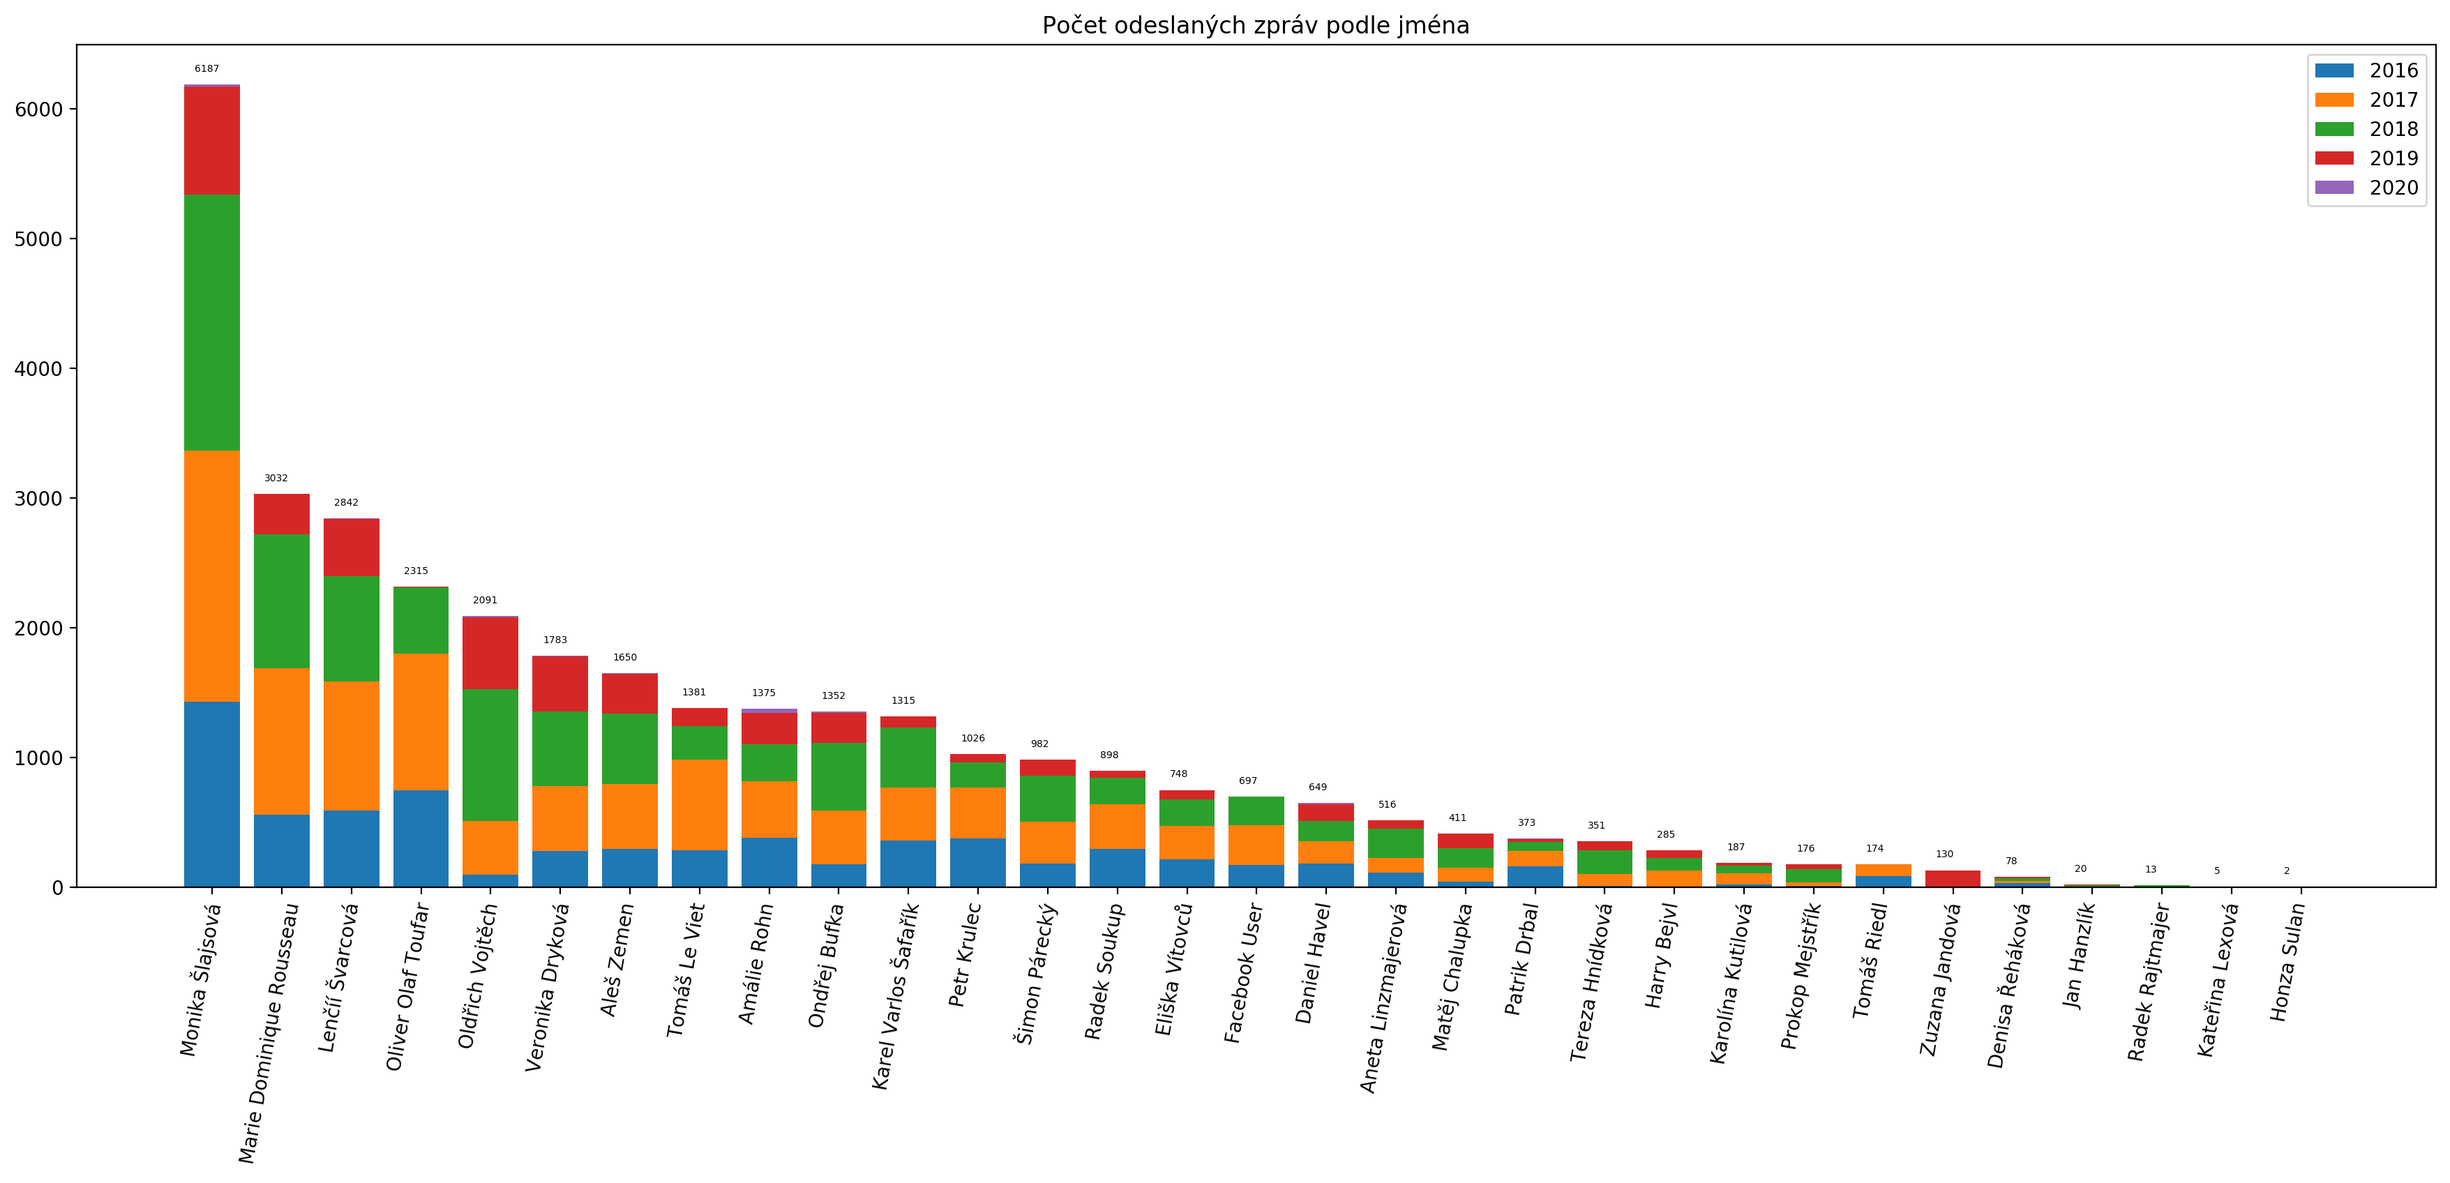
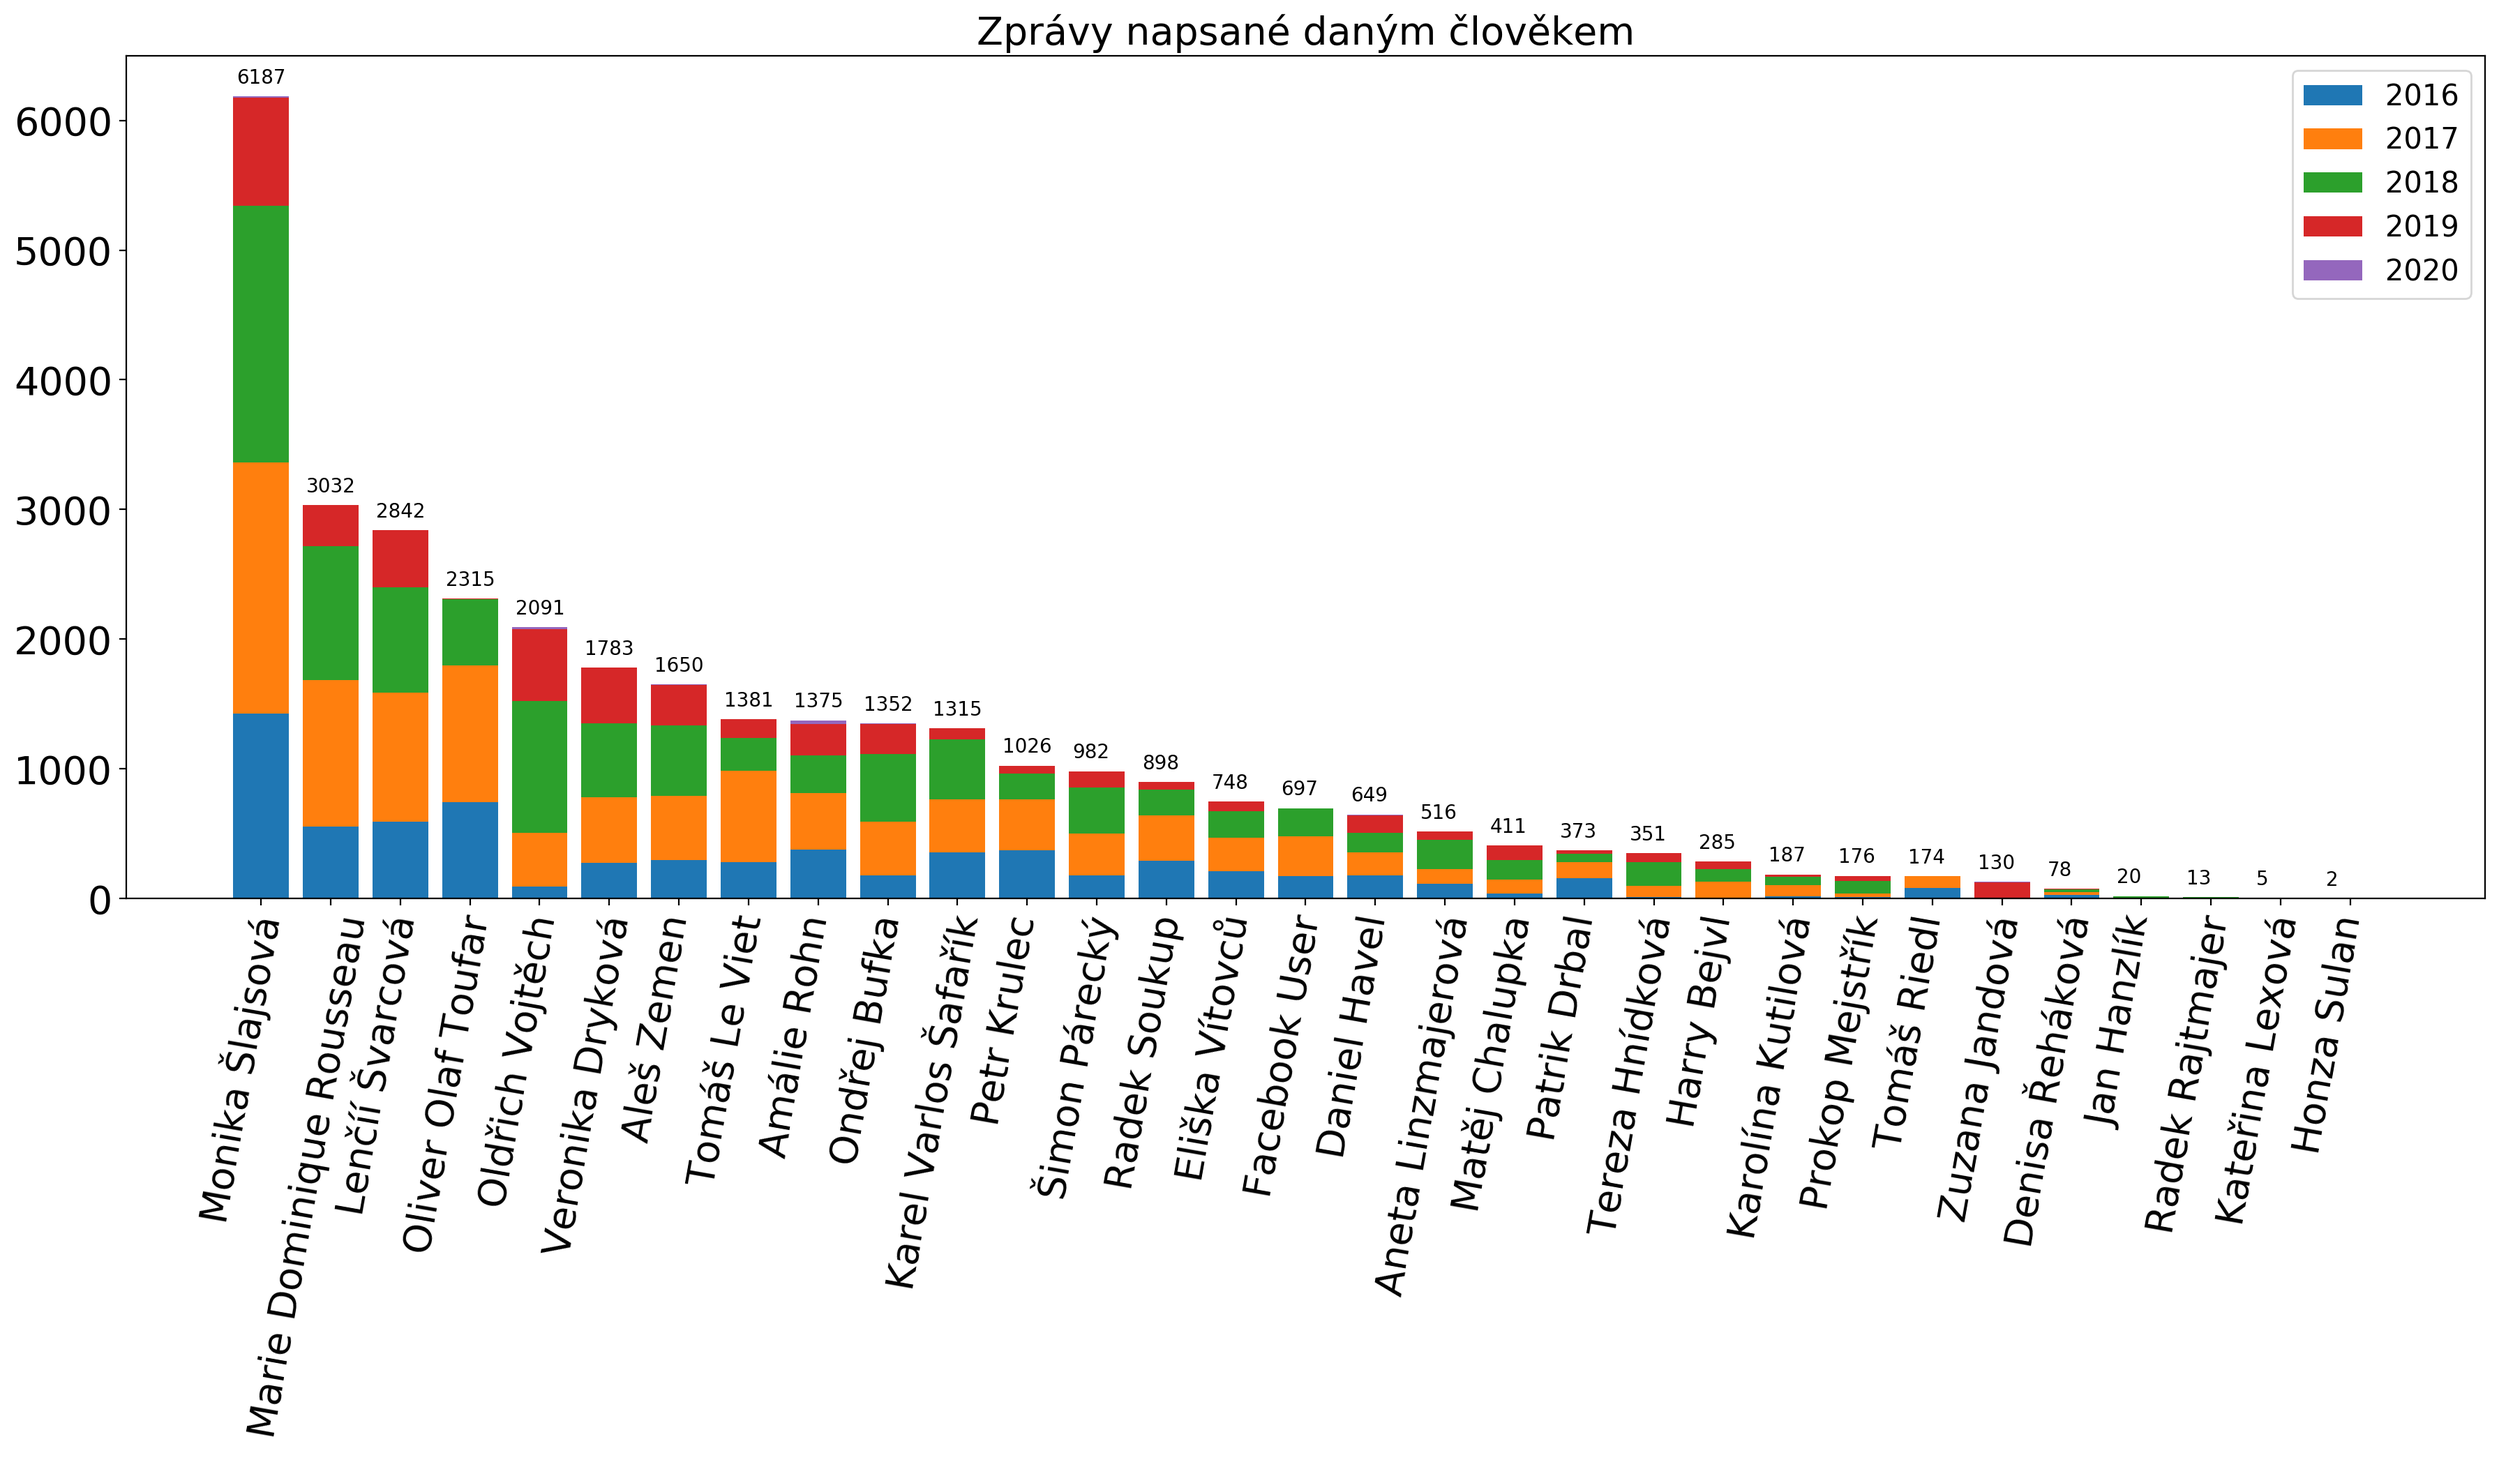
update

diff --git a/index.md b/index.md
@@ -4,16 +4,38 @@ title: Společenstvo Krabů
 description: ANALÝZA ZPRÁV
 ---
 
-<h3 align="center">Počet odeslaných zpráv podle jména</h3>
+<h2 align="center">Zprávy napsané v daným člověkem</h2>
 
-![Branching](images/jmena.png)
+![zpravy podle jmena](images/jmena.png)
 
 <hr/>
 
-<h3 align="center">Počet odeslaných zpráv v jednotlivých měsících</h3>
+<h2 align="center">Zprávy napsané v daným člověkem 2</h2>
 
 <p align="center">
-    <img alt="zpravy podle mesice" src="images/mesice.png">
+    <img alt="zpravy za mesic" src="images/jmena_pie.png">
 </p>
 
 <hr/>
+
+<h2 align="center">Zprávy napsané v jednotlivých měsících</h2>
+
+<p align="center">
+    <img alt="zpravy za mesic" src="images/mesice.png">
+</p>
+
+<hr/>
+
+<h2 align="center">Zprávy napsané v jednotlivých dnech</h2>
+
+<p align="center">
+    <img alt="zpravy za mesic" src="images/dny.png">
+</p>
+
+<hr/>
+
+<h2 align="center">Zprávy napsané v jednotlivých hodinách</h2>
+
+<p align="center">
+    <img alt="zpravy za mesic" src="images/hodiny.png">
+</p>
